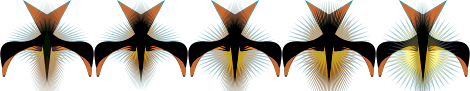
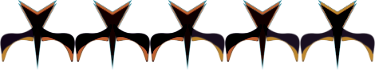
Changed enemyazmo sprite

diff --git a/js/core/leveldata.js b/js/core/leveldata.js
@@ -54,7 +54,7 @@ var islandSpawnSeq = [{"groundData":[{"groundKind":1,"x":28,"y":2400},{"groundKi
 
 var spaceSpawnSeq =
   // [{"groundData":[{"groundKind":3,"x":50,"y":2900},{"groundKind":3,"x":43,"y":2579}]},{"percDuration":0.04383999999999995,"kind":5,"driftX":0.5377999999999995,"percXMin":0.049499999999999954,"percXMax":0.3441,"speed":1,"wave":5,"ticksBetween":20},{"percDuration":0,"kind":1,"driftX":0.34155,"percXMin":0.4,"percXMax":0.6,"speed":1,"wave":5,"ticksBetween":35},{"percDuration":0.05045999999999981,"kind":0,"driftX":-0.5921000000000034,"percXMin":0.85,"percXMax":0.9,"speed":1,"wave":5,"ticksBetween":35}]
-  [{"groundData":[{"groundKind":3,"x":50,"y":2900},{"groundKind":3,"x":43,"y":2579}]},{"percDuration":0.05,"kind":5,"driftX":0.5,"percXMin":0,"percXMax":0.3,"speed":1,"wave":5,"ticksBetween":10},{"percDuration":0.05,"kind":0,"driftX":-0.8,"percXMin":0.85,"percXMax":0.9,"speed":1,"wave":5,"ticksBetween":10}]
+  [{"groundData":[{"groundKind":3,"x":50,"y":2900},{"groundKind":3,"x":43,"y":2579}]},{"percDuration":0.05,"kind":4,"driftX":0.5,"percXMin":0,"percXMax":0.3,"speed":1,"wave":5,"ticksBetween":10},{"percDuration":0.05,"kind":0,"driftX":-0.8,"percXMin":0.85,"percXMax":0.9,"speed":1,"wave":5,"ticksBetween":10}]
 	;
 
 var moonSpawnSeq = 

diff --git a/js/enemy/enemyazmo.js b/js/enemy/enemyazmo.js
@@ -1,4 +1,4 @@
-const ENEMY_AZMO_DIM = 94;
+const ENEMY_AZMO_DIM = 75;
 const ENEMY_AZMO_FRAMES = 5;
 
 enemyAzmoClass.prototype = new moveDrawClass();
